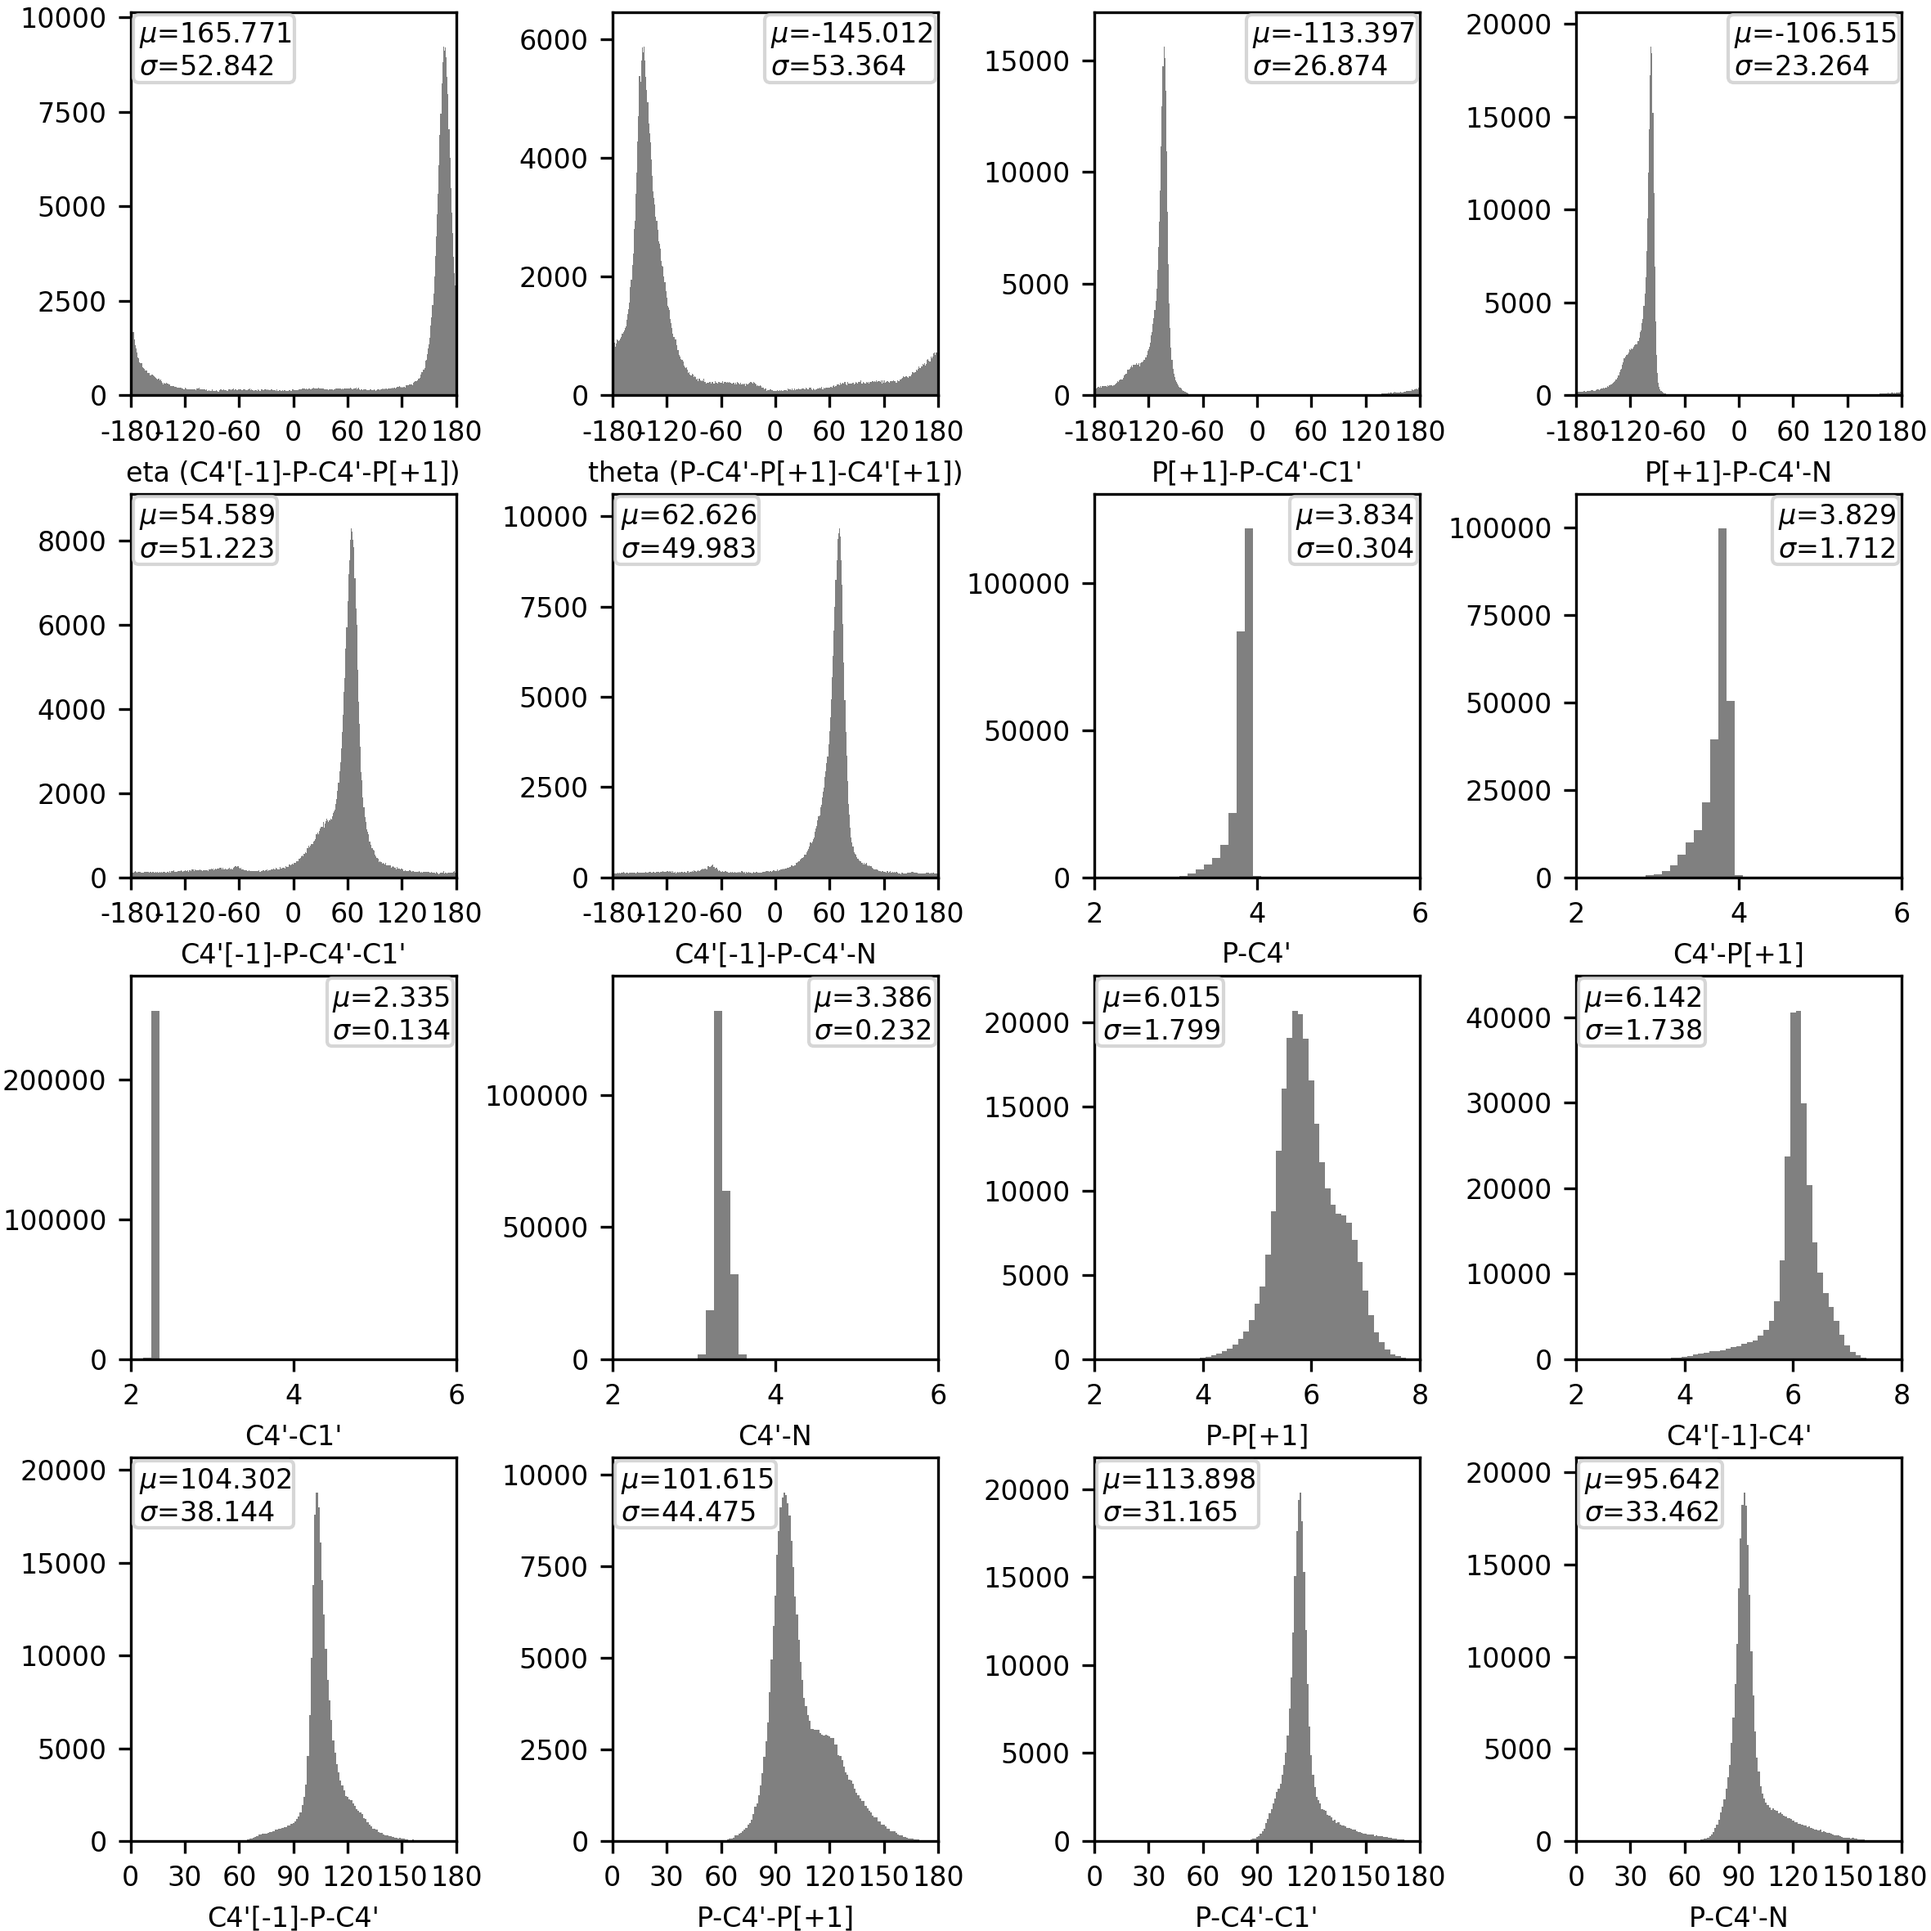
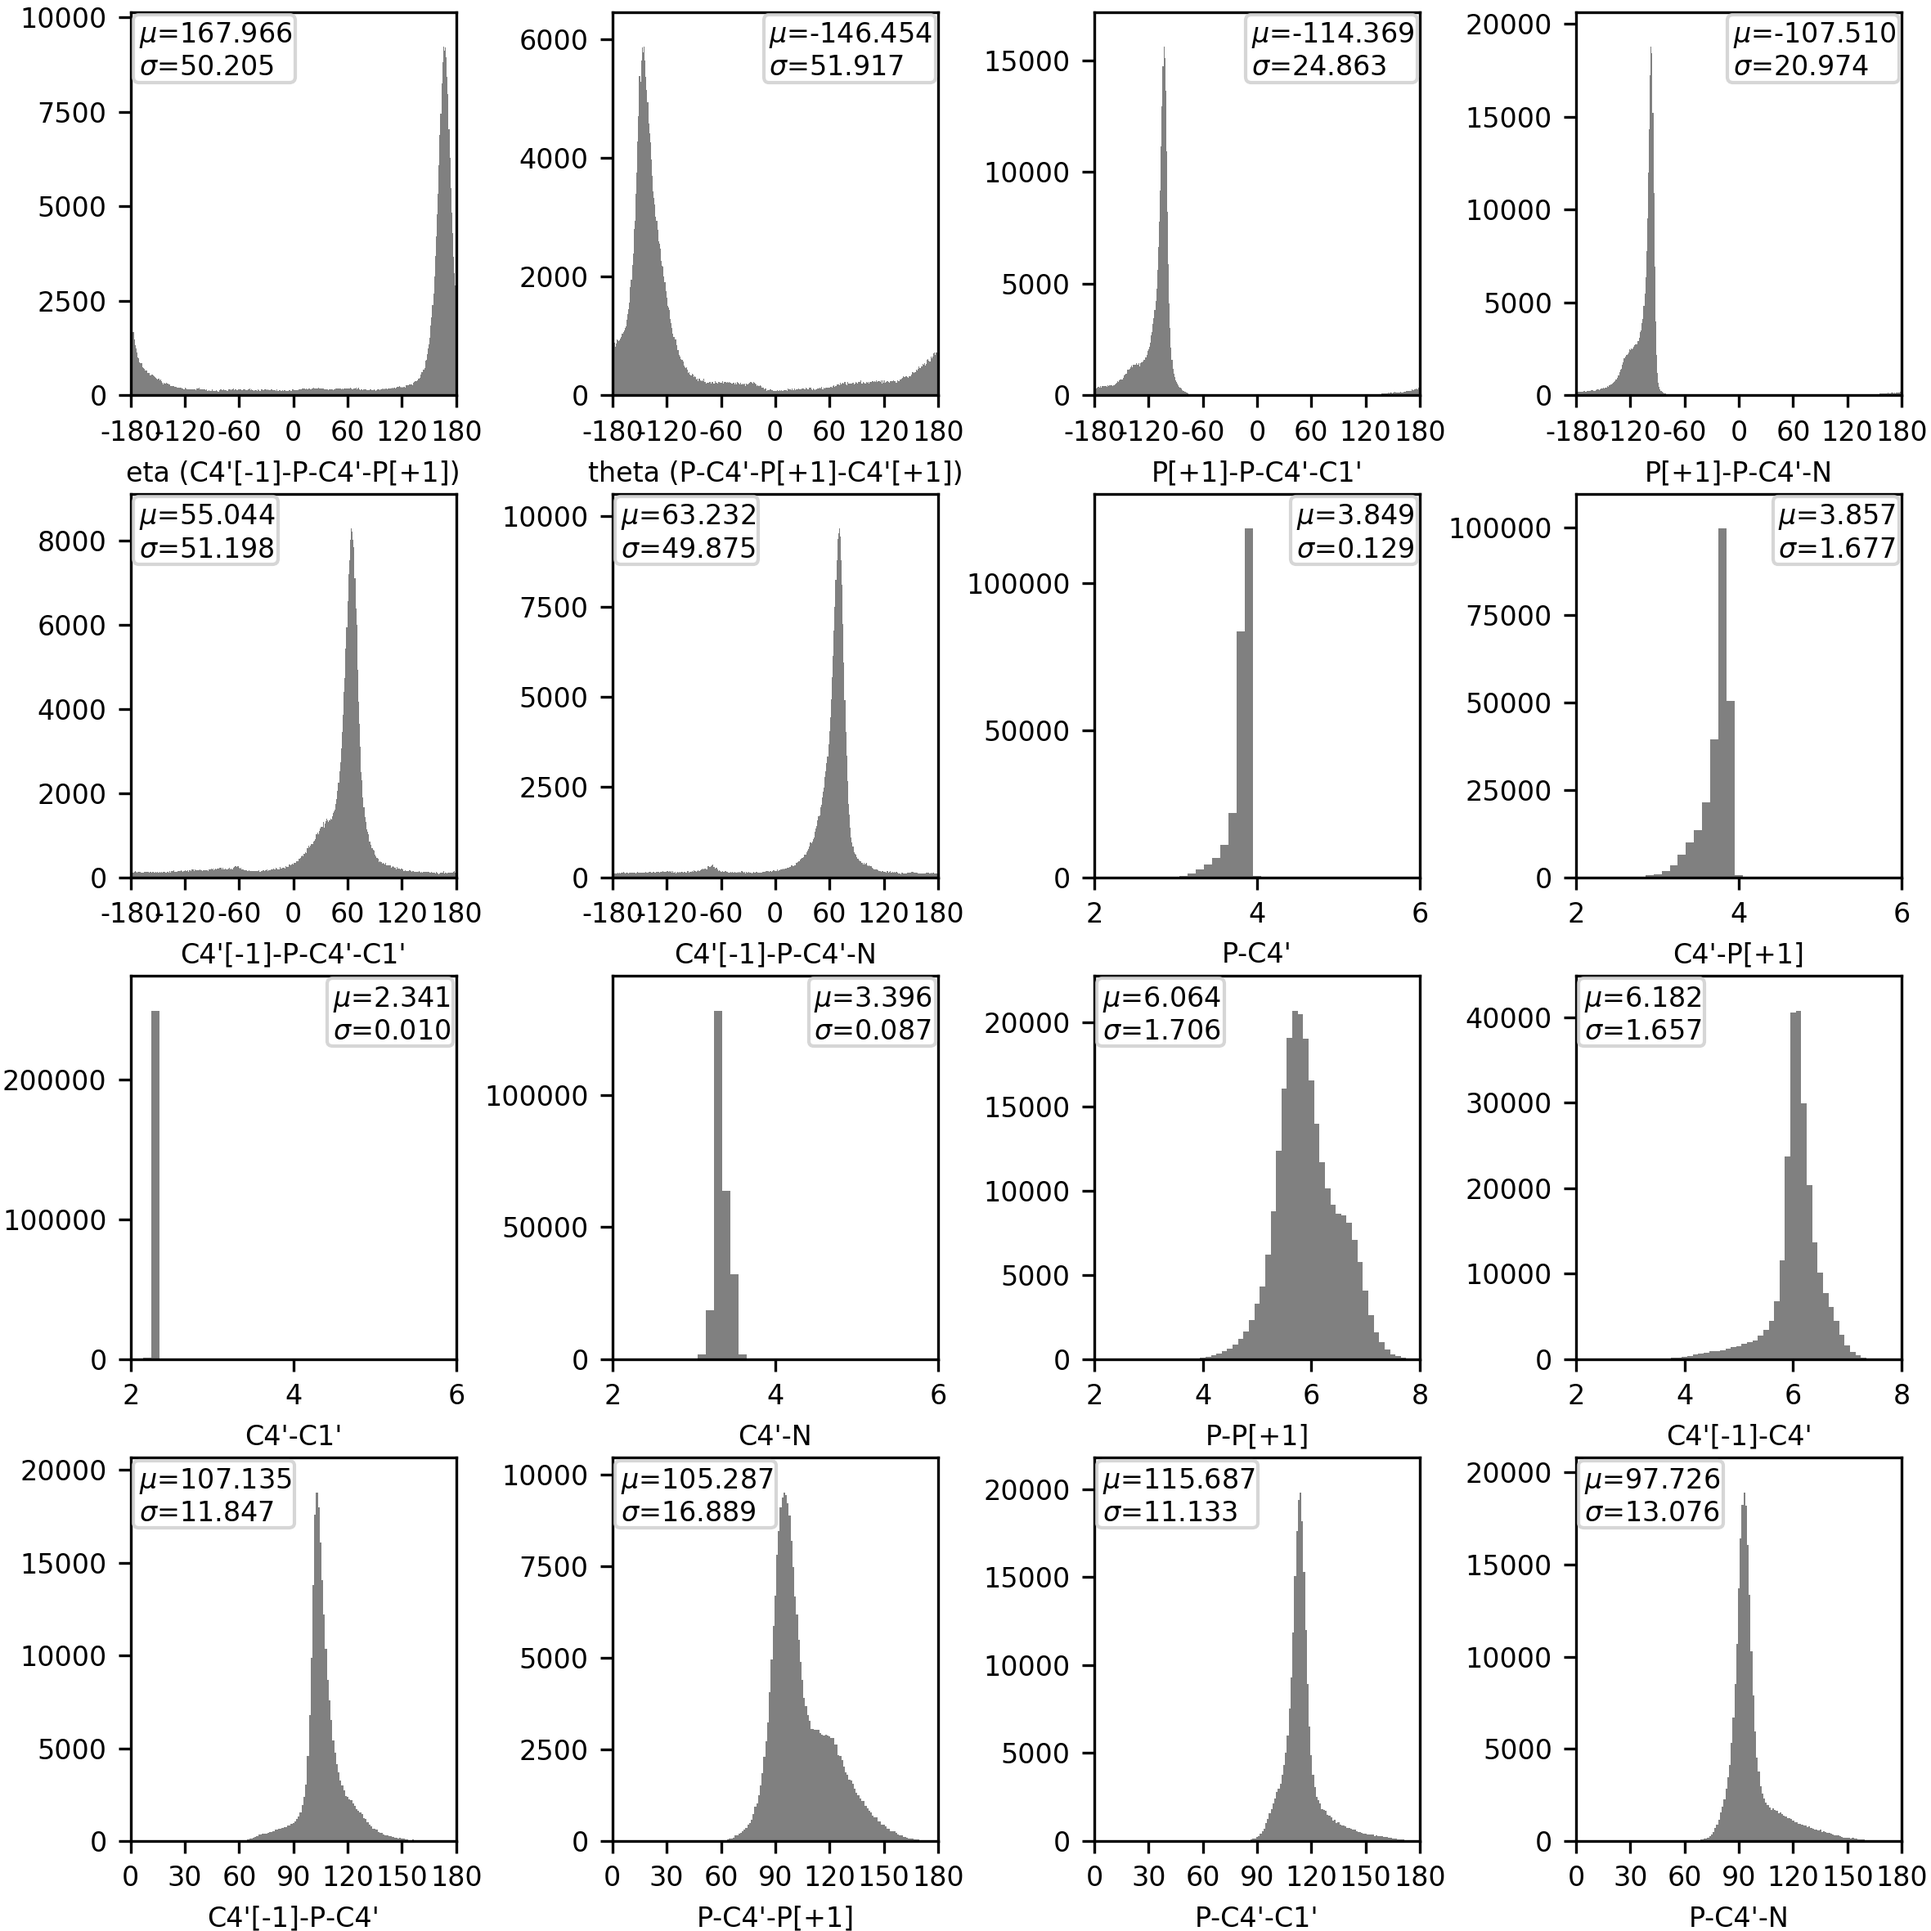
BPtorsion

diff --git a/src/BPtorsion2.hpp b/src/BPtorsion2.hpp
@@ -162,7 +162,7 @@ void BPtorsion2(const vector<char>&chain1_list, const vector<char>&chain2_list,
     const bool show_ang, vector<vector<float> >&BPtorMat,
     vector<vector<float> >&BPlenMat, vector<vector<float> >&BPangMat)
 {
-    vector<float> tmp_tor(2,-360.);
+    vector<float> tmp_tor(3,-360.);
     vector<float> tmp_len(3,-1.);
     vector<float> tmp_ang(3,-360.);
 
@@ -272,6 +272,7 @@ void BPtorsion2(const vector<char>&chain1_list, const vector<char>&chain2_list,
         {
             if (has_Pi  && has_C4i && has_C4j && has_Pj ) BPtorMat[bp][0]=rad2deg(Points2Dihedral( Pi,C4i,C4j, Pj)); // PCCP: P[i]-C4'[i]-C4'[j]-P[j]
             if (has_C4i && has_Nxi && has_Nxj && has_C4j) BPtorMat[bp][1]=rad2deg(Points2Dihedral(C4i,Nxi,Nxj,C4j)); // CNNC: C4'[i]-N[i]-N[j]-C4'[j]
+            if (has_Pi  && has_Nxi && has_Nxj && has_Pj ) BPtorMat[bp][2]=rad2deg(Points2Dihedral( Pi,Nxi,Nxj, Pj)); // PNNP: P[i]-N[i]-N[j]-P[j]
         }
         if (show_len)
         {
@@ -283,6 +284,7 @@ void BPtorsion2(const vector<char>&chain1_list, const vector<char>&chain2_list,
         {
             if (has_Pi  && has_C4i && has_Pj  && has_C4j) BPangMat[bp][0]=rad2deg(Points4Angle( Pi,C4i, Pj,C4j)); // aPC: <P[i]C4'[i],P[j]C4'[j]>
             if (has_C4i && has_Nxi && has_C4j && has_Nxj) BPangMat[bp][1]=rad2deg(Points4Angle(C4i,Nxi,C4j,Nxj)); // aCN: <C4'[i]N[i],C4'[j]N[j]>
+            if (has_Pi  && has_Nxi && has_Pj  && has_Nxj) BPangMat[bp][2]=rad2deg(Points4Angle( Pi,Nxi, Pj,Nxj)); // aPN: <P[i]N[i],P[j]N[j]>
         }
     }
 

diff --git a/src/BPtorsion2.cpp b/src/BPtorsion2.cpp
@@ -71,9 +71,9 @@ int main(int argc,char **argv)
         show_tor, show_len, show_ang, BPtorMat, BPlenMat, BPangMat);
 
     cout<<"N c resi  N c resi  name       ";
-    if (show_tor)   cout<<"    PCCP    CNNC";
+    if (show_tor)   cout<<"    PCCP    CNNC    PNNP";
     if (show_len)   cout<<"      PP      CC      NN";
-    if (show_ang)   cout<<"     aPC     aCN";
+    if (show_ang)   cout<<"     aPC     aCN     aPN";
     cout<<endl;
 
     size_t bp;
@@ -88,7 +88,8 @@ int main(int argc,char **argv)
         {
             cout<<setiosflags(ios::fixed)<<setprecision(2)
                 <<' '<<setw(7)<<BPtorMat[bp][0]
-                <<' '<<setw(7)<<BPtorMat[bp][1];
+                <<' '<<setw(7)<<BPtorMat[bp][1]
+                <<' '<<setw(7)<<BPtorMat[bp][2];
             BPtorMat[bp].clear();
         }
         if (show_len)
@@ -103,7 +104,8 @@ int main(int argc,char **argv)
         {
             cout<<setiosflags(ios::fixed)<<setprecision(2)
                 <<' '<<setw(7)<<BPangMat[bp][0]
-                <<' '<<setw(7)<<BPangMat[bp][1];
+                <<' '<<setw(7)<<BPangMat[bp][1]
+                <<' '<<setw(7)<<BPangMat[bp][2];
                 BPangMat[bp].clear();
         }
         cout<<endl;

diff --git a/script/statNaTorsion3.py b/script/statNaTorsion3.py
@@ -84,6 +84,10 @@ def statNaTorsion(rawfile):
         plt.subplot(4,4,a+1)
         
         bond_data=data[:,a]
+        if a<6 or a>=12:
+            bond_data=bond_data[bond_data>=-180]
+        else:
+            bond_data=bond_data[bond_data>0]
         mu=bond_data.mean()
         sigma=bond_data.std()
         if a<6:
